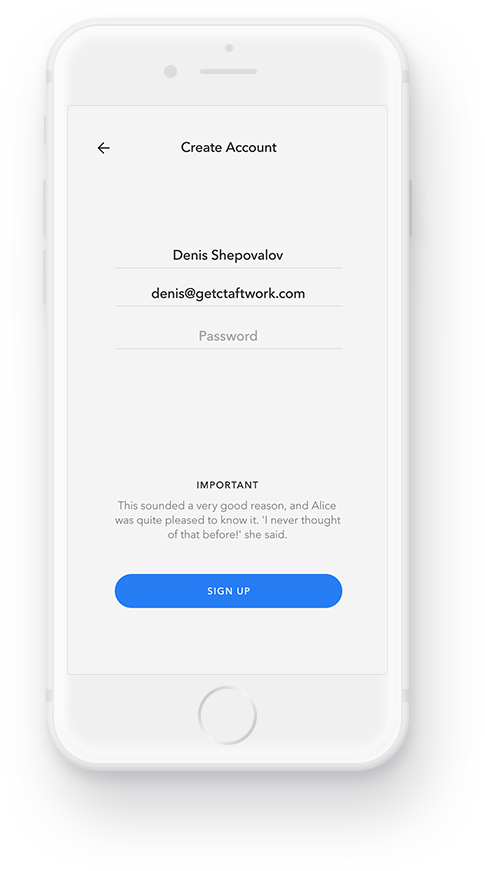
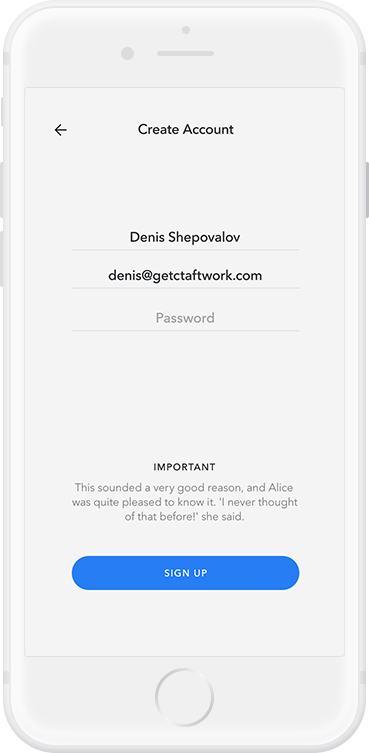
added new and removed old images in interface section

diff --git a/index.html b/index.html
@@ -177,33 +177,31 @@
 		<div class="almost-map"></div>
 	</section>
 	<section class="interface" id="interface">
-		<div class="container">
-			<div class="interface__block">
-				<div class="interface__row-text">
-					<h2 class="interface__title">
-						Beautiful Interface
-					</h2>
-					<hr class="interface__line" />
-					<p class="interface__description">
-						Landing Screen
-					</p>
+		<div class="interface__block">
+			<div class="interface__row-text">
+				<h2 class="interface__title">
+					Beautiful Interface
+				</h2>
+				<hr class="interface__line" />
+				<p class="interface__description">
+					Landing Screen
+				</p>
+			</div>
+			<div class="interface__row-images">
+				<div class="interface__image-block">
+					<img class="interface__image" src="img/SignIn.png" alt="Screen1" />
 				</div>
-				<div class="interface__row-images">
-					<div class="interface__image-block">
-						<img class="interface__image" src="img/Screen1.png" alt="Screen1" />
-					</div>
-					<div class="interface__image-block">
-						<img class="interface__image" src="img/Screen2.png" alt="Screen2" />
-					</div>
-					<div class="interface__image-block">
-						<img class="interface__image" src="img/iPhone6.png" alt="i-phone-6" />
-					</div>
-					<div class="interface__image-block">
-						<img class="interface__image" src="img/Screen4.png" alt="Screen-4" />
-					</div>
-					<div class="interface__image-block">
-						<img class="interface__image" src="img/Screen5.png" alt="screen-5" />
-					</div>
+				<div class="interface__image-block">
+					<img class="interface__image" src="img/SignUp2.png" alt="Screen2" />
+				</div>
+				<div class="interface__image-block">
+					<img class="interface__image" src="img/iPhone6.png" alt="i-phone-6" />
+				</div>
+				<div class="interface__image-block">
+					<img class="interface__image" src="img/Topbar1.png" alt="Screen-4" />
+				</div>
+				<div class="interface__image-block">
+					<img class="interface__image" src="img/Topbar.png" alt="screen-5" />
 				</div>
 			</div>
 		</div>
